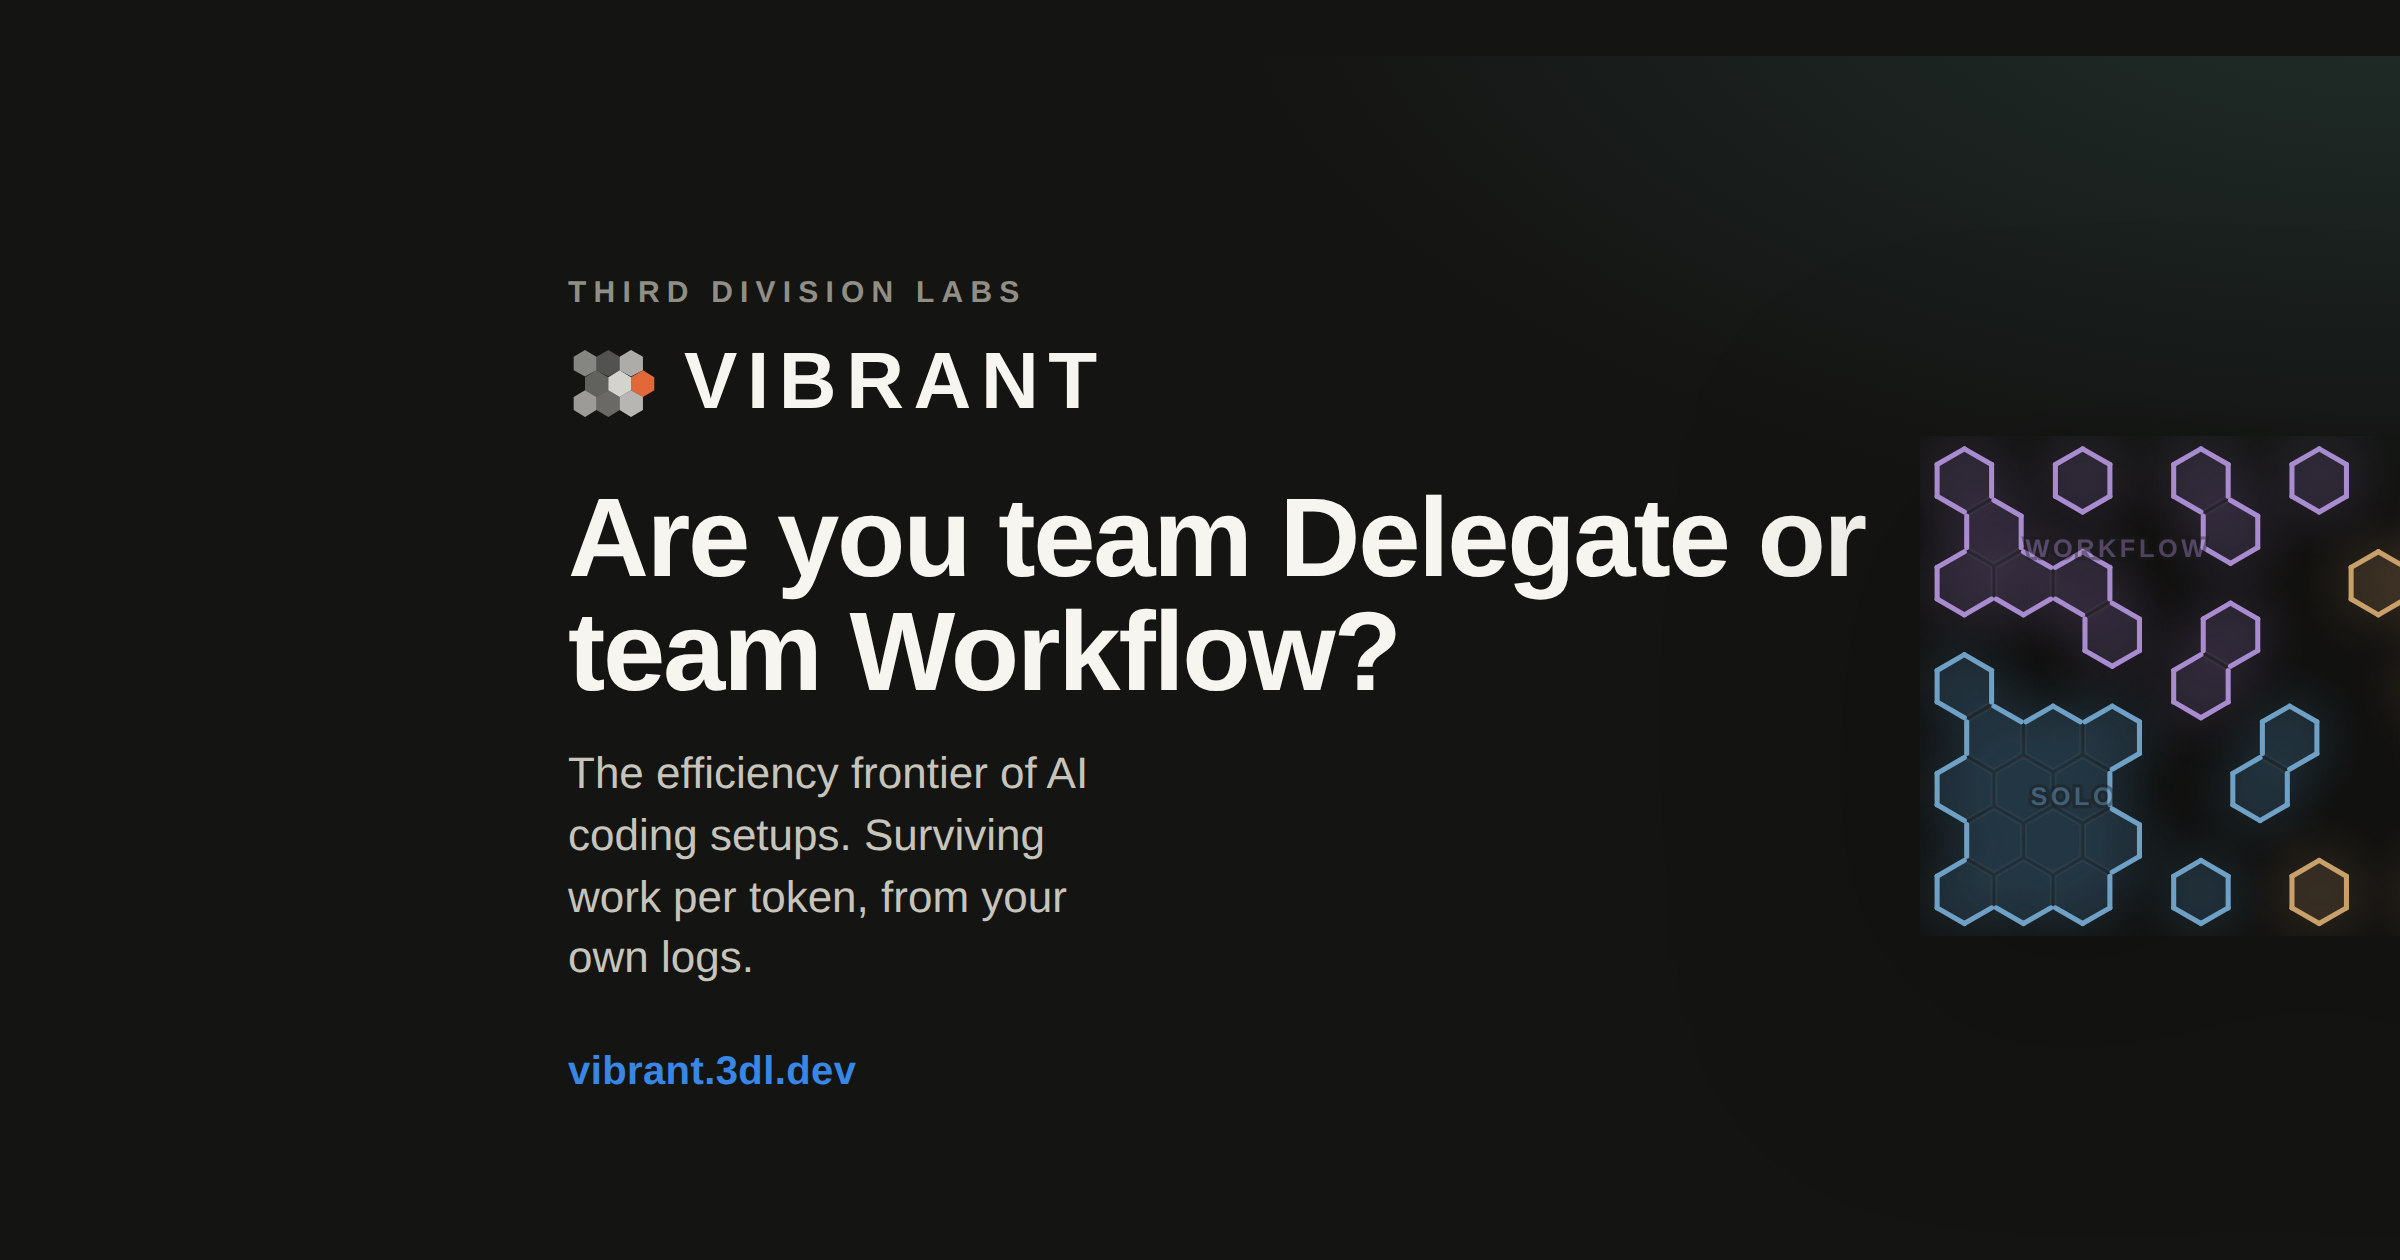
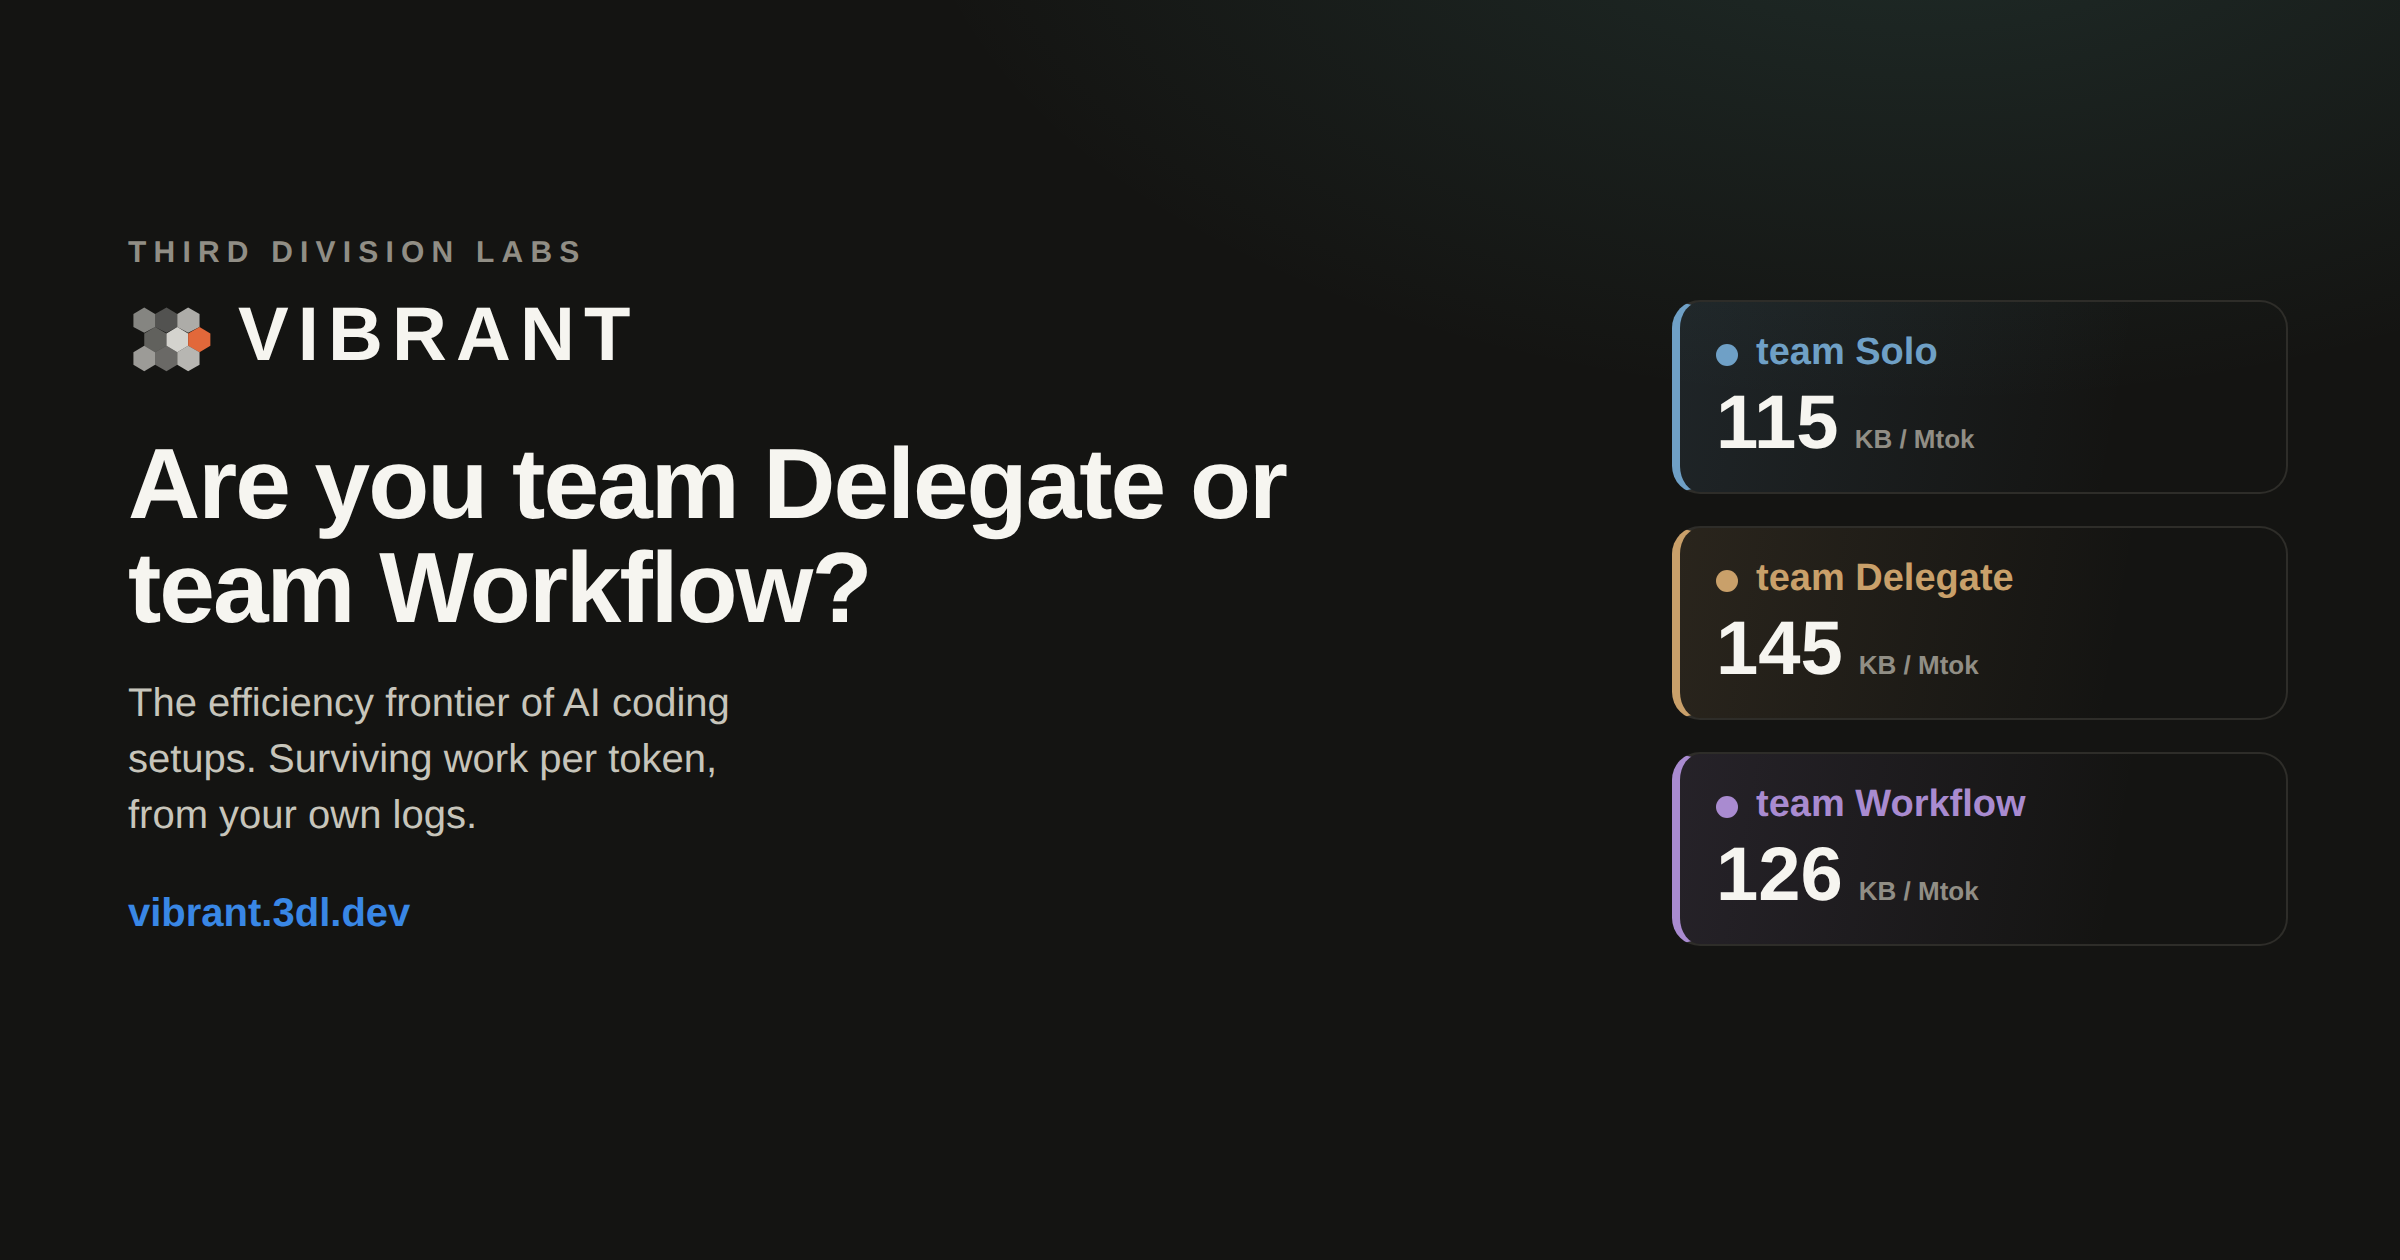
Social unfurl: fixed OG card (no clipping), teams mini-standing
The prior card clipped on the right: the report CSS's .vibrant wrapper imposes a max-width and
padding that shifted the fixed 1200px card off-frame. Neutralized .vibrant's layout for the OG
build. New card: wordmark + 'Are you team Delegate or team Workflow?' + three team cards (Solo
115, Delegate 145, Workflow 126 KB/Mtok), all fully visible, legible at thumbnail size.
leaderboard/build_og.py generates it.

diff --git a/leaderboard/build_og.py b/leaderboard/build_og.py
@@ -1,0 +1,39 @@
+import sys
+sys.path.insert(0,"/home/baron/projects/agent-dyno/skills/vibrant-report")
+import vibrant_report as vr
+TEAMS=[("Solo","#6fa0c6",115),("Delegate","#c9a06a",145),("Workflow","#a98bd0",126)]
+CSS="<style>"+vr._CSS+"</style>"
+cards="".join(f'<div class="tc" style="--c:{c}"><div class="tl"><span class="d"></span><span class="nm">team {n}</span></div><div class="num">{v}<span class="u">KB / Mtok</span></div></div>' for n,c,v in TEAMS)
+og=f'''<!doctype html><html data-theme=dark><head><meta charset=utf-8>{CSS}<style>
+*{{box-sizing:border-box}}
+.vibrant{{max-width:none !important;width:1200px !important;margin:0 !important;padding:0 !important;background:transparent !important}}
+html,body{{margin:0;background:#141412}}
+.og{{width:1200px;height:630px;overflow:hidden;position:relative;
+ background:radial-gradient(880px 480px at 80% -12%, rgba(111,214,201,.13), transparent 58%),#141412;
+ font-family:-apple-system,BlinkMacSystemFont,"Segoe UI",Roboto,sans-serif}}
+.ogtext{{position:absolute;left:64px;top:118px;width:700px}}
+.eye{{font-size:15px;font-weight:800;letter-spacing:.24em;text-transform:uppercase;color:var(--muted)}}
+.wm{{display:flex;align-items:center;gap:13px;margin:12px 0 26px}}
+.wm .w{{font-size:38px;font-weight:850;letter-spacing:.12em;color:var(--ink)}}
+.wm svg{{width:42px;height:42px}}
+.h1{{font-size:50px;font-weight:850;letter-spacing:-.02em;line-height:1.04;color:var(--ink);margin:0 0 18px}}
+.sub{{font-size:20px;color:var(--ink2);line-height:1.4;max-width:30ch;margin:0 0 24px}}
+.url{{font-size:20px;font-weight:700;color:var(--accent)}}
+.ogcards{{position:absolute;right:56px;top:150px;width:308px;display:flex;flex-direction:column;gap:16px}}
+.tc{{border:1px solid var(--line);border-left:4px solid var(--c);border-radius:14px;background:linear-gradient(100deg,color-mix(in srgb,var(--c) 12%,transparent),transparent 72%);padding:15px 18px}}
+.tl{{display:flex;align-items:center;gap:9px;margin-bottom:5px}}
+.tl .d{{width:11px;height:11px;border-radius:50%;background:var(--c);flex:none}}
+.tl .nm{{font-size:19px;font-weight:800;color:var(--c)}}
+.num{{font-size:38px;font-weight:850;color:var(--ink);font-variant-numeric:tabular-nums;line-height:1;white-space:nowrap}}
+.num .u{{font-size:13px;font-weight:600;color:var(--muted);margin-left:8px}}
+</style></head><body><div class="vibrant"><div class="og">
+ <div class="ogtext">
+  <div class="eye">Third Division Labs</div>
+  <div class="wm">{vr._som_mark()}<span class="w">VIBRANT</span></div>
+  <div class="h1">Are you team Delegate or team Workflow?</div>
+  <div class="sub">The efficiency frontier of AI coding setups. Surviving work per token, from your own logs.</div>
+  <div class="url">vibrant.3dl.dev</div>
+ </div>
+ <div class="ogcards">{cards}</div>
+</div></div></body></html>'''
+open("og.html","w").write(og); print("wrote")
